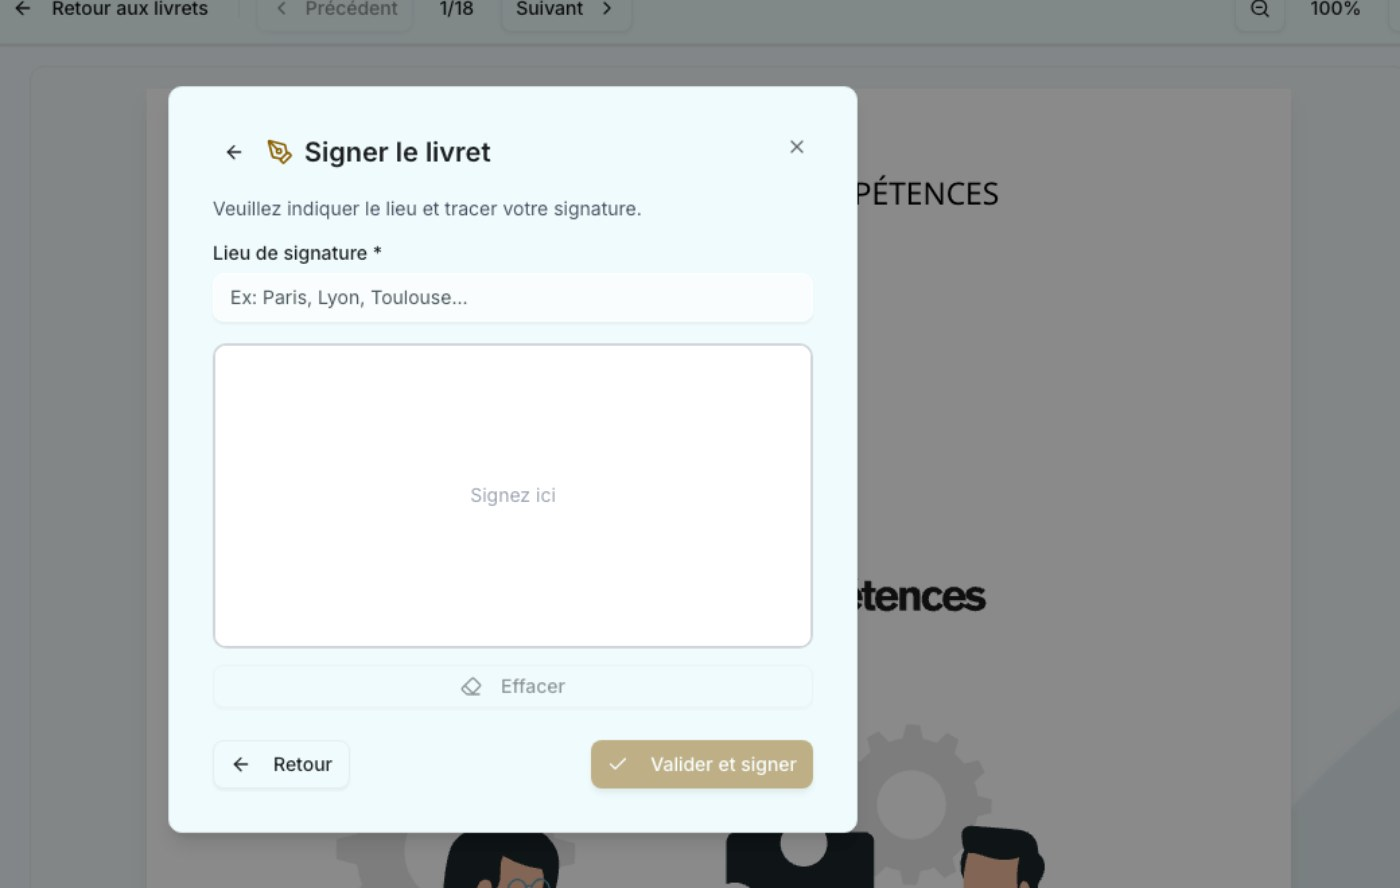
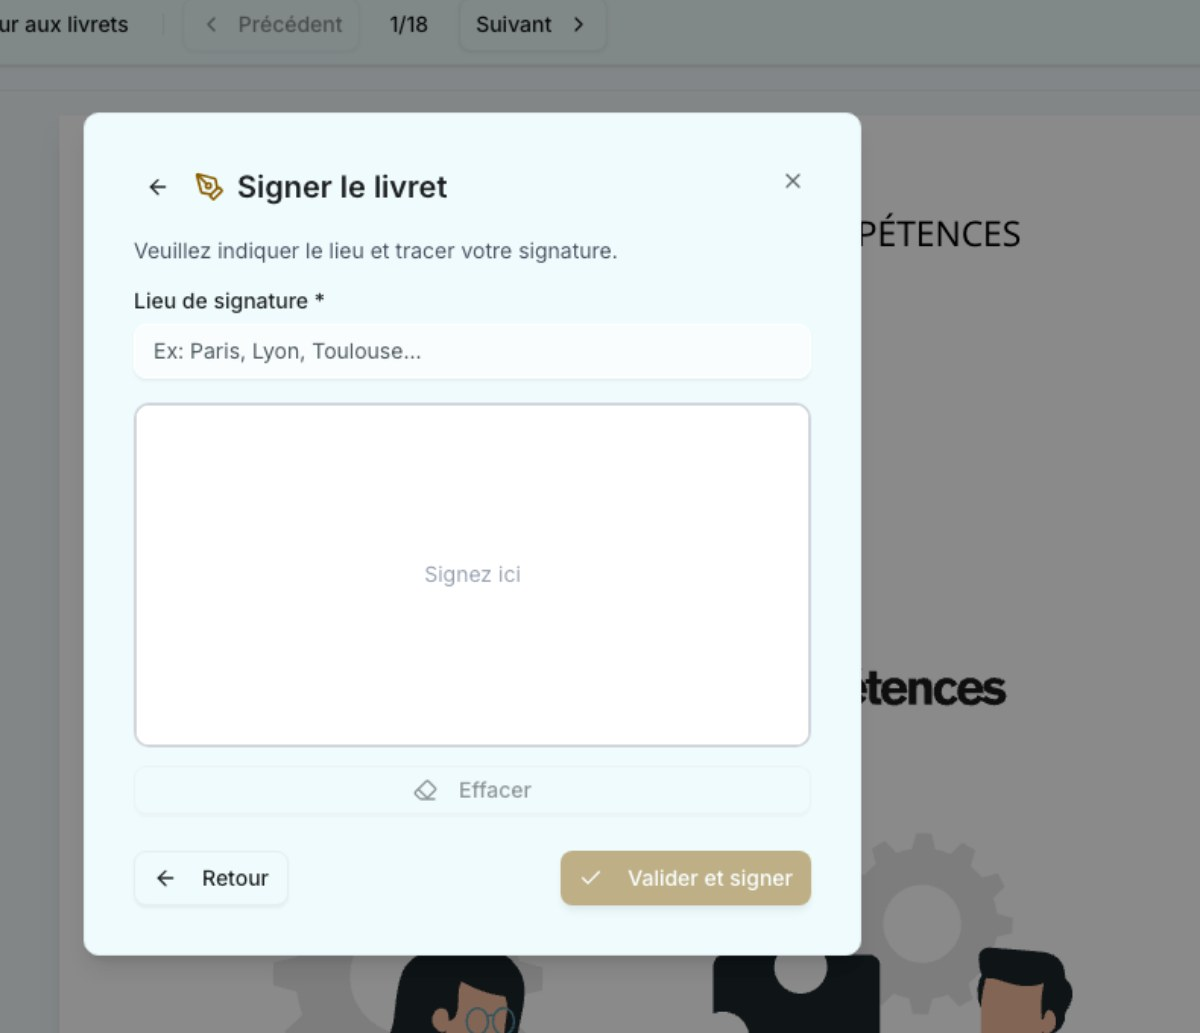
feat: real testimonial, usage stats, richer feature lists and livret pair

diff --git a/features/np-evolution/components/NpEvolution.tsx b/features/np-evolution/components/NpEvolution.tsx
@@ -51,23 +51,28 @@ export async function NpEvolution() {
               {t.rich('intro2', { k: (chunks) => <span className="text-ink">{chunks}</span> })}
             </p>
           </div>
-          {/* Le client : la preuve humaine (lien LinkedIn réel) */}
+          {/* Le client : témoignage réel (recommandation LinkedIn, citée verbatim) */}
           <div className="self-end lg:col-span-4 lg:col-start-9">
-            <div className="rounded-lg border border-hairline bg-surface p-6">
+            <figure className="rounded-lg border border-hairline bg-surface p-6">
               <p className="mb-3 font-mono text-xs uppercase tracking-[0.2em] text-accent">
                 {t('clientLabel')}
               </p>
-              <p className="font-display text-xl italic text-ink">{t('clientName')}</p>
-              <p className="mt-1.5 text-sm leading-relaxed text-ink-muted">{t('clientRole')}</p>
-              <a
-                href="https://www.linkedin.com/in/nicolas-picaut-9455a9179/"
-                target="_blank"
-                rel="noopener noreferrer"
-                className="mt-4 inline-block font-mono text-xs uppercase tracking-[0.12em] text-ink-muted underline decoration-hairline underline-offset-4 transition-colors duration-200 hover:text-accent"
-              >
-                {t('clientLink')} ↗
-              </a>
-            </div>
+              <blockquote className="font-display text-[1.05rem] italic leading-snug text-ink">
+                {t('clientQuote')}
+              </blockquote>
+              <figcaption className="mt-4">
+                <p className="text-sm font-medium text-ink">{t('clientName')}</p>
+                <p className="mt-0.5 text-sm leading-relaxed text-ink-muted">{t('clientRole')}</p>
+                <a
+                  href="https://www.linkedin.com/in/thibault-deverge/"
+                  target="_blank"
+                  rel="noopener noreferrer"
+                  className="mt-3 inline-block font-mono text-xs uppercase tracking-[0.12em] text-ink-muted underline decoration-hairline underline-offset-4 transition-colors duration-200 hover:text-accent"
+                >
+                  {t('clientLink')} ↗
+                </a>
+              </figcaption>
+            </figure>
           </div>
         </div>
 
@@ -91,33 +96,56 @@ export async function NpEvolution() {
             <p className="mb-3 font-mono text-xs uppercase tracking-[0.2em] text-accent">
               {t('feat1Label')}
             </p>
-            <p className="max-w-[36ch] text-pretty text-[clamp(1rem,1.25vw,1.15rem)] leading-[1.65] text-ink-muted">
-              {t('feat1Body')}
+            <p className="max-w-[38ch] text-pretty text-[clamp(1rem,1.25vw,1.15rem)] leading-[1.6] text-ink">
+              {t('feat1Intro')}
             </p>
+            <ul className="mt-3 max-w-[38ch] space-y-2 text-[clamp(0.95rem,1.15vw,1.05rem)] leading-[1.55] text-ink-muted">
+              {(['feat1Item1', 'feat1Item2', 'feat1Item3'] as const).map((key) => (
+                <li key={key} className="flex gap-2.5">
+                  <span aria-hidden className="text-accent">—</span>
+                  <span className="text-pretty">{t(key)}</span>
+                </li>
+              ))}
+            </ul>
           </div>
 
-          {/* 02 — les livrets (le cœur du produit) */}
+          {/* 02 — les livrets : la page interactive + les cartes de progression, empilées */}
           <div className="relative lg:col-span-6 lg:col-start-7 lg:row-start-2">
-            <ImageLightbox src="/images/np-livrets.jpg" label={t('zoom')}>
-              <div className="relative aspect-[1090/520] overflow-hidden rounded-lg border border-hairline bg-surface shadow-xl shadow-ink/10">
-                <Image src="/images/np-livrets.jpg" alt="" fill sizes="(min-width:1024px) 46vw, 92vw" className="object-cover" />
-              </div>
-            </ImageLightbox>
+            <div className="relative aspect-[100/78]">
+              <ImageLightbox src="/images/np-livret-page.jpg" label={t('zoom')} className="absolute left-0 top-0 w-[54%]">
+                <div className="relative aspect-[900/1180] overflow-hidden rounded-lg border border-hairline bg-surface shadow-xl shadow-ink/10">
+                  <Image src="/images/np-livret-page.jpg" alt="" fill sizes="(min-width:1024px) 26vw, 50vw" className="object-cover" />
+                </div>
+              </ImageLightbox>
+              <ImageLightbox src="/images/np-livrets.jpg" label={t('zoom')} className="absolute bottom-[6%] right-0 w-[62%]">
+                <div className="relative aspect-[1090/520] overflow-hidden rounded-lg border border-hairline bg-surface shadow-xl shadow-ink/15">
+                  <Image src="/images/np-livrets.jpg" alt="" fill sizes="(min-width:1024px) 30vw, 60vw" className="object-cover" />
+                </div>
+              </ImageLightbox>
+            </div>
             <FilNode className="absolute -right-1.5 -top-1.5" />
           </div>
           <div className="self-center lg:col-span-4 lg:col-start-1 lg:row-start-2">
             <p className="mb-3 font-mono text-xs uppercase tracking-[0.2em] text-accent">
               {t('feat2Label')}
             </p>
-            <p className="max-w-[36ch] text-pretty text-[clamp(1rem,1.25vw,1.15rem)] leading-[1.65] text-ink-muted">
-              {t('feat2Body')}
+            <p className="max-w-[38ch] text-pretty text-[clamp(1rem,1.25vw,1.15rem)] leading-[1.6] text-ink">
+              {t('feat2Intro')}
             </p>
+            <ul className="mt-3 max-w-[38ch] space-y-2 text-[clamp(0.95rem,1.15vw,1.05rem)] leading-[1.55] text-ink-muted">
+              {(['feat2Item1', 'feat2Item2', 'feat2Item3'] as const).map((key) => (
+                <li key={key} className="flex gap-2.5">
+                  <span aria-hidden className="text-accent">—</span>
+                  <span className="text-pretty">{t(key)}</span>
+                </li>
+              ))}
+            </ul>
           </div>
 
           {/* 03 — la signature & l'émargement (la conformité) */}
           <div className="relative lg:col-span-6 lg:col-start-1 lg:row-start-3">
             <ImageLightbox src="/images/np-signature.jpg" label={t('zoom')}>
-              <div className="relative aspect-[1040/660] overflow-hidden rounded-lg border border-hairline bg-surface shadow-xl shadow-ink/10">
+              <div className="relative aspect-[790/680] overflow-hidden rounded-lg border border-hairline bg-surface shadow-xl shadow-ink/10">
                 <Image src="/images/np-signature.jpg" alt="" fill sizes="(min-width:1024px) 46vw, 92vw" className="object-cover" />
               </div>
             </ImageLightbox>
@@ -127,9 +155,17 @@ export async function NpEvolution() {
             <p className="mb-3 font-mono text-xs uppercase tracking-[0.2em] text-accent">
               {t('feat3Label')}
             </p>
-            <p className="max-w-[36ch] text-pretty text-[clamp(1rem,1.25vw,1.15rem)] leading-[1.65] text-ink-muted">
-              {t('feat3Body')}
+            <p className="max-w-[38ch] text-pretty text-[clamp(1rem,1.25vw,1.15rem)] leading-[1.6] text-ink">
+              {t('feat3Intro')}
             </p>
+            <ul className="mt-3 max-w-[38ch] space-y-2 text-[clamp(0.95rem,1.15vw,1.05rem)] leading-[1.55] text-ink-muted">
+              {(['feat3Item1', 'feat3Item2', 'feat3Item3'] as const).map((key) => (
+                <li key={key} className="flex gap-2.5">
+                  <span aria-hidden className="text-accent">—</span>
+                  <span className="text-pretty">{t(key)}</span>
+                </li>
+              ))}
+            </ul>
           </div>
 
           {/* 04 — tests + rapport IA */}
@@ -145,24 +181,37 @@ export async function NpEvolution() {
             <p className="mb-3 font-mono text-xs uppercase tracking-[0.2em] text-accent">
               {t('feat4Label')}
             </p>
-            <p className="max-w-[36ch] text-pretty text-[clamp(1rem,1.25vw,1.15rem)] leading-[1.65] text-ink-muted">
-              {t('feat4Body')}
+            <p className="max-w-[38ch] text-pretty text-[clamp(1rem,1.25vw,1.15rem)] leading-[1.6] text-ink">
+              {t('feat4Intro')}
             </p>
+            <ul className="mt-3 max-w-[38ch] space-y-2 text-[clamp(0.95rem,1.15vw,1.05rem)] leading-[1.55] text-ink-muted">
+              {(['feat4Item1', 'feat4Item2', 'feat4Item3'] as const).map((key) => (
+                <li key={key} className="flex gap-2.5">
+                  <span aria-hidden className="text-accent">—</span>
+                  <span className="text-pretty">{t(key)}</span>
+                </li>
+              ))}
+            </ul>
           </div>
         </div>
 
-        {/* Rangée de stats entre filets */}
-        <div className="mt-[clamp(56px,9vh,110px)] grid grid-cols-1 gap-6 border-y border-hairline py-7 sm:grid-cols-3">
-          {(['stat1', 'stat2', 'stat3'] as const).map((key) => (
-            <div key={key} className="flex items-baseline gap-3">
-              <span className="font-display text-[clamp(1.9rem,2.6vw,2.6rem)] font-normal leading-none tracking-tight text-accent">
-                {t(`${key}Value`)}
-              </span>
-              <span className="font-mono text-[11px] uppercase tracking-[0.12em] text-ink-muted">
-                {t(`${key}Label`)}
-              </span>
-            </div>
-          ))}
+        {/* Usage réel (chiffres de prod) entre filets + la ligne « sous le capot » */}
+        <div className="mt-[clamp(56px,9vh,110px)] border-y border-hairline">
+          <div className="grid grid-cols-2 gap-x-6 gap-y-7 py-8 lg:grid-cols-4">
+            {(['stat1', 'stat2', 'stat3', 'stat4'] as const).map((key) => (
+              <div key={key}>
+                <div className="font-display text-[clamp(2rem,2.8vw,2.8rem)] font-normal leading-none tracking-tight text-accent">
+                  {t(`${key}Value`)}
+                </div>
+                <p className="mt-2 font-mono text-[11px] uppercase leading-relaxed tracking-[0.12em] text-ink-muted">
+                  {t(`${key}Label`)}
+                </p>
+              </div>
+            ))}
+          </div>
+          <p className="border-t border-hairline py-4 font-mono text-[11px] uppercase tracking-[0.12em] text-ink-muted">
+            {t('hood')}
+          </p>
         </div>
       </div>
     </section>